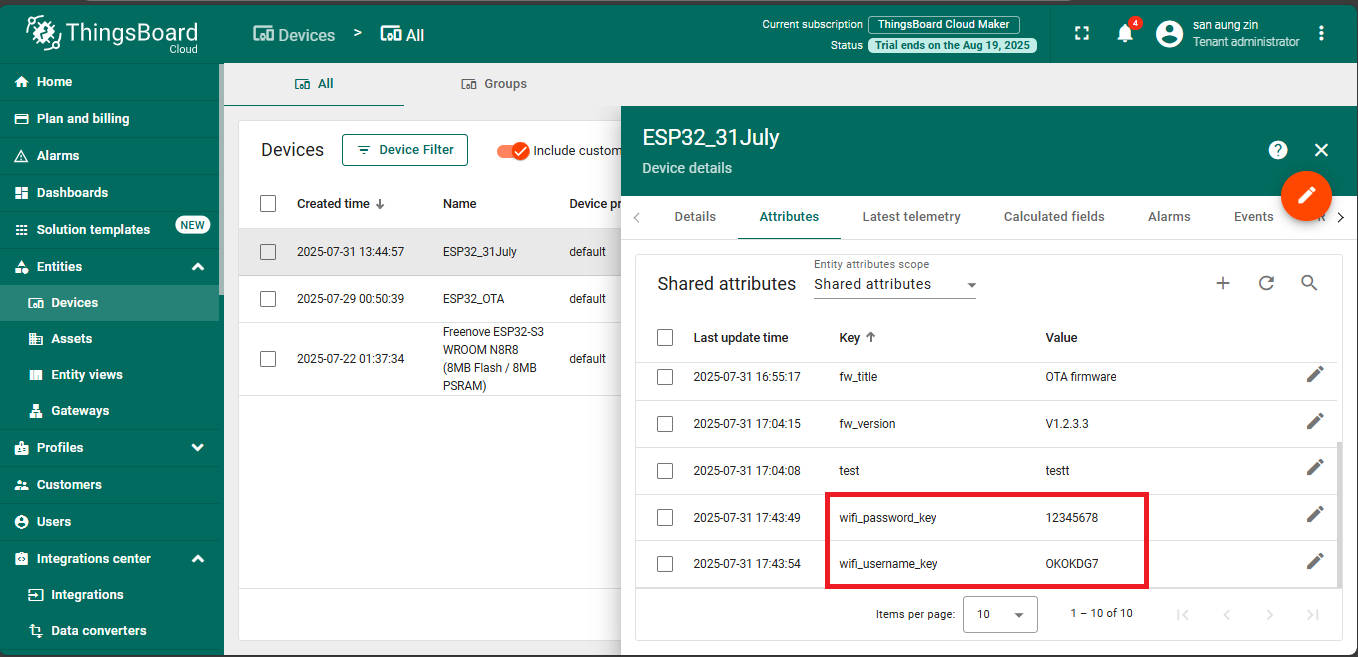
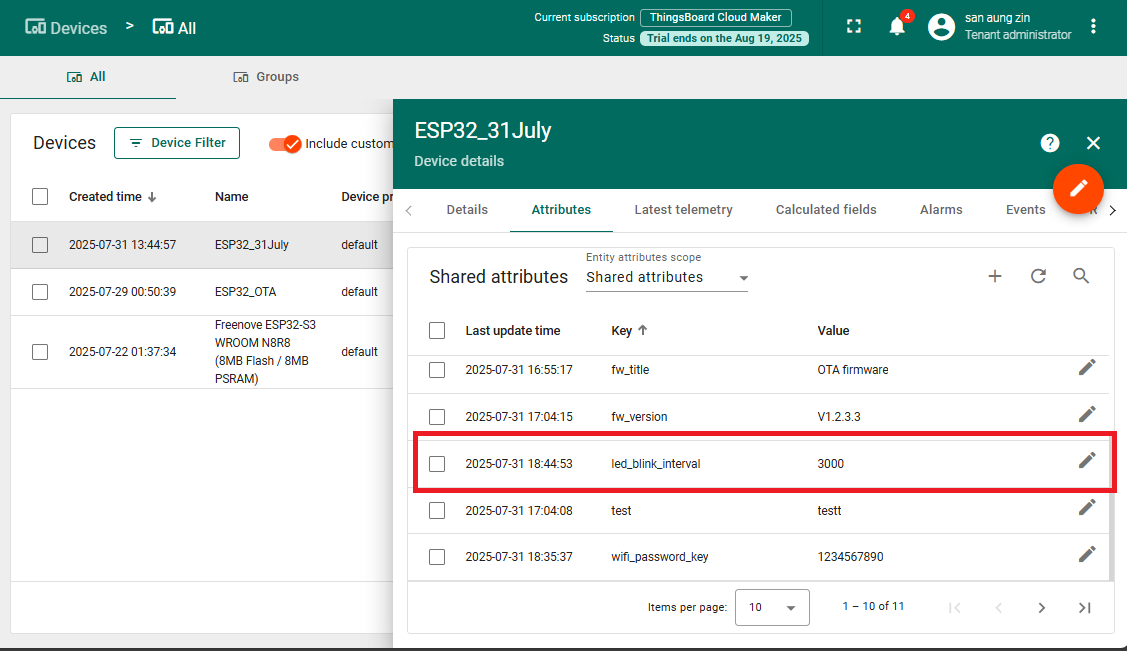
blink_interval_update_from_TBshareAttributes

diff --git a/src/main.cpp b/src/main.cpp
@@ -1,103 +1,39 @@
-#ifdef ESP8266
-#include <ESP8266WiFi.h>
-#else
-#ifdef ESP32
-#include <WiFi.h>
-#include <WiFiClientSecure.h>
-#endif // ESP32
-#endif // ESP8266
-
 #include <Arduino_MQTT_Client.h>
-#include <Preferences.h> // For ESP32 EEPROM emulation
+#include <Preferences.h>
 #include <Shared_Attribute_Update.h>
 #include <ThingsBoard.h>
+#include <WiFi.h>
 
-// Whether the given script is using encryption or not,
-// generally recommended as it increases security (communication with the server
-// is not in clear text anymore), it does come with an overhead tough as having
-// an encrypted session requires a lot of memory, which might not be avaialable
-// on lower end devices.
+#define LED 2 // Define the LED pin, change as needed
+
 #define ENCRYPTED false
 
 constexpr char WIFI_SSID[] = "TP-Link_60_502";
 constexpr char WIFI_PASSWORD[] = "isgm1234";
 
-// See https://thingsboard.io/docs/getting-started-guides/helloworld/
-// to understand how to obtain an access token
 constexpr char TOKEN[] = "vyT28nuMgr7DLU5W0SkH";
 
 // Thingsboard we want to establish a connection too
 constexpr char THINGSBOARD_SERVER[] = "thingsboard.cloud";
 
-// MQTT port used to communicate with the server, 1883 is the default
-// unencrypted MQTT port, whereas 8883 would be the default encrypted SSL MQTT
-// port
 #if ENCRYPTED
 constexpr uint16_t THINGSBOARD_PORT = 8883U;
 #else
 constexpr uint16_t THINGSBOARD_PORT = 1883U;
 #endif
 
-// Maximum size packets will ever be sent or received by the underlying MQTT
-// client, if the size is to small messages might not be sent or received
-// messages will be discarded
 constexpr uint16_t MAX_MESSAGE_SEND_SIZE = 128U;
 constexpr uint16_t MAX_MESSAGE_RECEIVE_SIZE = 128U;
 
-// Baud rate for the debugging serial connection
-// If the Serial output is mangled, ensure to change the monitor speed
-// accordingly to this variable
 constexpr uint32_t SERIAL_DEBUG_BAUD = 115200U;
 
-// Maximum amount of attributs we can request or subscribe, has to be set both
-// in the ThingsBoard template list and Attribute_Request_Callback template list
-// and should be the same as the amount of variables in the passed array. If it
-// is less not all variables will be requested or subscribed
 constexpr size_t MAX_ATTRIBUTES = 6U;
-
-#if ENCRYPTED
-// See
-// https://comodosslstore.com/resources/what-is-a-root-ca-certificate-and-how-do-i-download-it/
-// on how to get the root certificate of the server we want to communicate with,
-// this is needed to establish a secure connection and changes depending on the
-// website.
-constexpr char ROOT_CERT[] = R"(-----BEGIN CERTIFICATE-----
[29 lines of base64/hex data omitted]
------END CERTIFICATE-----
-)";
-#endif
 
 constexpr char CONNECTING_MSG[] = "Connecting to: (%s) with token (%s)\n";
 char constexpr WIFI_USERNAME_KEY[] = "wifi_username_key";
 char constexpr WIFI_PASSWORD_KEY[] = "wifi_password_key";
+constexpr char LED_BLINK_INTERVAL_KEY[] = "led_blink_interval";
+uint16_t blinkIntervalMs = 500; // default value
 
 // Initialize underlying client, used to establish a connection
 #if ENCRYPTED
@@ -119,8 +55,6 @@ ThingsBoard tb(mqttClient, MAX_MESSAGE_RECEIVE_SIZE, MAX_MESSAGE_SEND_SIZE,
 // Statuses for subscribing to shared attributes
 bool subscribed = false;
 
-/// @brief Initalizes WiFi connection,
-// will endlessly delay until a connection has been successfully established
 void InitWiFi() {
   Serial.println("Connecting to AP ...");
   // Attempting to establish a connection to the given WiFi network
@@ -136,8 +70,6 @@ void InitWiFi() {
 #endif
 }
 
-/// @brief Reconnects the WiFi uses InitWiFi if the connection has been removed
-/// @return Returns true as soon as a connection has been established again
 bool reconnect() {
   // Check to ensure we aren't connected yet
   const wl_status_t status = WiFi.status();
@@ -150,56 +82,71 @@ bool reconnect() {
   return true;
 }
 
-/// @brief Update callback that will be called as soon as one of the provided
-/// shared attributes changes value, if none are provided we subscribe to any
-/// shared attribute change instead
-/// @param data Data containing the shared attributes that were changed and
-/// their current value
 void processSharedAttributeUpdate(const JsonObjectConst &data) {
-  preferences.begin("tb-config", false); // open for writing
+  preferences.begin("tb-config", false);
 
   for (auto it = data.begin(); it != data.end(); ++it) {
-    const char *key = it->key().c_str();
-    const char *value = it->value().as<const char *>();
-    Serial.println(key);
-    Serial.println(value);
+    String key = it->key().c_str();
 
-    if (strcmp(key, WIFI_USERNAME_KEY) == 0) {
-      preferences.putString("wifi_user", value);
-      Serial.println("Saved wifi_user to EEPROM");
-    } else if (strcmp(key, WIFI_PASSWORD_KEY) == 0) {
-      preferences.putString("wifi_pass", value);
-      Serial.println("Saved wifi_pass to EEPROM");
+    if (key == LED_BLINK_INTERVAL_KEY) {
+      // Ensure value is an integer
+      if (it->value().is<uint16_t>()) {
+        uint16_t newInterval = it->value().as<uint16_t>();
+        blinkIntervalMs = newInterval;
+        preferences.putUInt("blink_intv", newInterval); // Save to preferences
+        Serial.print("Updated and saved blink interval to: ");
+        Serial.println(newInterval);
+      } else {
+        Serial.println("Invalid type for LED blink interval. Must be integer.");
+      }
+    } else if (key == WIFI_USERNAME_KEY) {
+      preferences.putString("wifi_user", it->value().as<String>());
+      Serial.println("Saved wifi_user");
+    } else if (key == WIFI_PASSWORD_KEY) {
+      preferences.putString("wifi_pass", it->value().as<String>());
+      Serial.println("Saved wifi_pass");
     }
-
-    preferences.end(); // commit and close
   }
 
-  const size_t jsonSize = Helper::Measure_Json(data);
-  char buffer[jsonSize];
-  serializeJson(data, buffer, jsonSize);
-  Serial.println(buffer);
+  preferences.end();
 }
 
 void setup() {
-  // Initalize serial connection for debugging
+  pinMode(LED, OUTPUT);
   Serial.begin(SERIAL_DEBUG_BAUD);
   delay(1000);
+
   preferences.begin("tb-config", true); // read-only
-  String savedUser = preferences.getString("wifi_user", "none");
-  String savedPass = preferences.getString("wifi_pass", "none");
+  String wifiUserName = preferences.getString("wifi_user", "none");
+  String wifiPass = preferences.getString("wifi_pass", "none");
+
+  // Load blinkInterval only if it was previously saved (non-zero)
+  uint16_t storedInterval = preferences.getUInt("blink_intv", 0);
+  Serial.print("storedInterval: ");
+  Serial.println(storedInterval);
+
+  if (storedInterval != 0) {
+    blinkIntervalMs = storedInterval;
+  } else {
+    blinkIntervalMs = 500;
+  }
+
   preferences.end();
 
   Serial.print("Stored WiFi Username: ");
-  Serial.println(savedUser);
+  Serial.println(wifiUserName);
   Serial.print("Stored WiFi Password: ");
-  Serial.println(savedPass);
+  Serial.println(wifiPass);
+  Serial.print("Using LED Blink Interval: ");
+  Serial.println(blinkIntervalMs);
+
   InitWiFi();
 }
 
-void loop() {
-  delay(1000);
+unsigned long lastBlink = 0;
+bool ledState = false;
 
+void loop() {
   if (!reconnect()) {
     return;
   }
@@ -218,7 +165,9 @@ void loop() {
     Serial.println("Subscribing for shared attribute updates...");
     // Shared attributes we want to request from the server
     constexpr std::array<const char *, MAX_ATTRIBUTES>
-        SUBSCRIBED_SHARED_ATTRIBUTES = {WIFI_USERNAME_KEY, WIFI_PASSWORD_KEY};
+        SUBSCRIBED_SHARED_ATTRIBUTES = {WIFI_USERNAME_KEY, WIFI_PASSWORD_KEY,
+                                        LED_BLINK_INTERVAL_KEY};
+
     const Shared_Attribute_Callback<MAX_ATTRIBUTES> callback(
         &processSharedAttributeUpdate, SUBSCRIBED_SHARED_ATTRIBUTES);
     if (!shared_update.Shared_Attributes_Subscribe(callback)) {
@@ -231,4 +180,9 @@ void loop() {
   }
 
   tb.loop();
+  if (millis() - lastBlink > blinkIntervalMs) {
+    lastBlink = millis();
+    ledState = !ledState;
+    digitalWrite(LED, ledState);
+  }
 }
